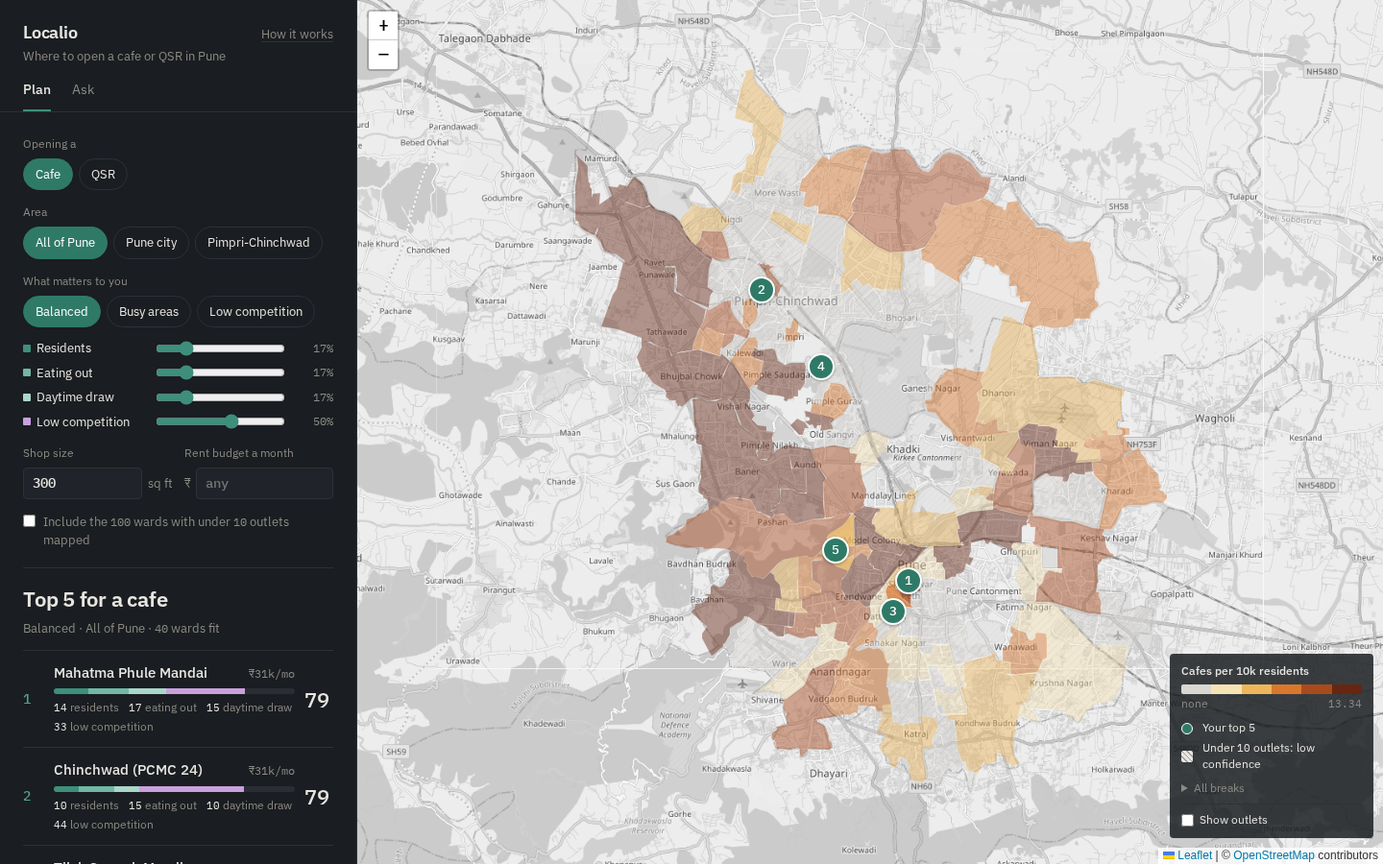
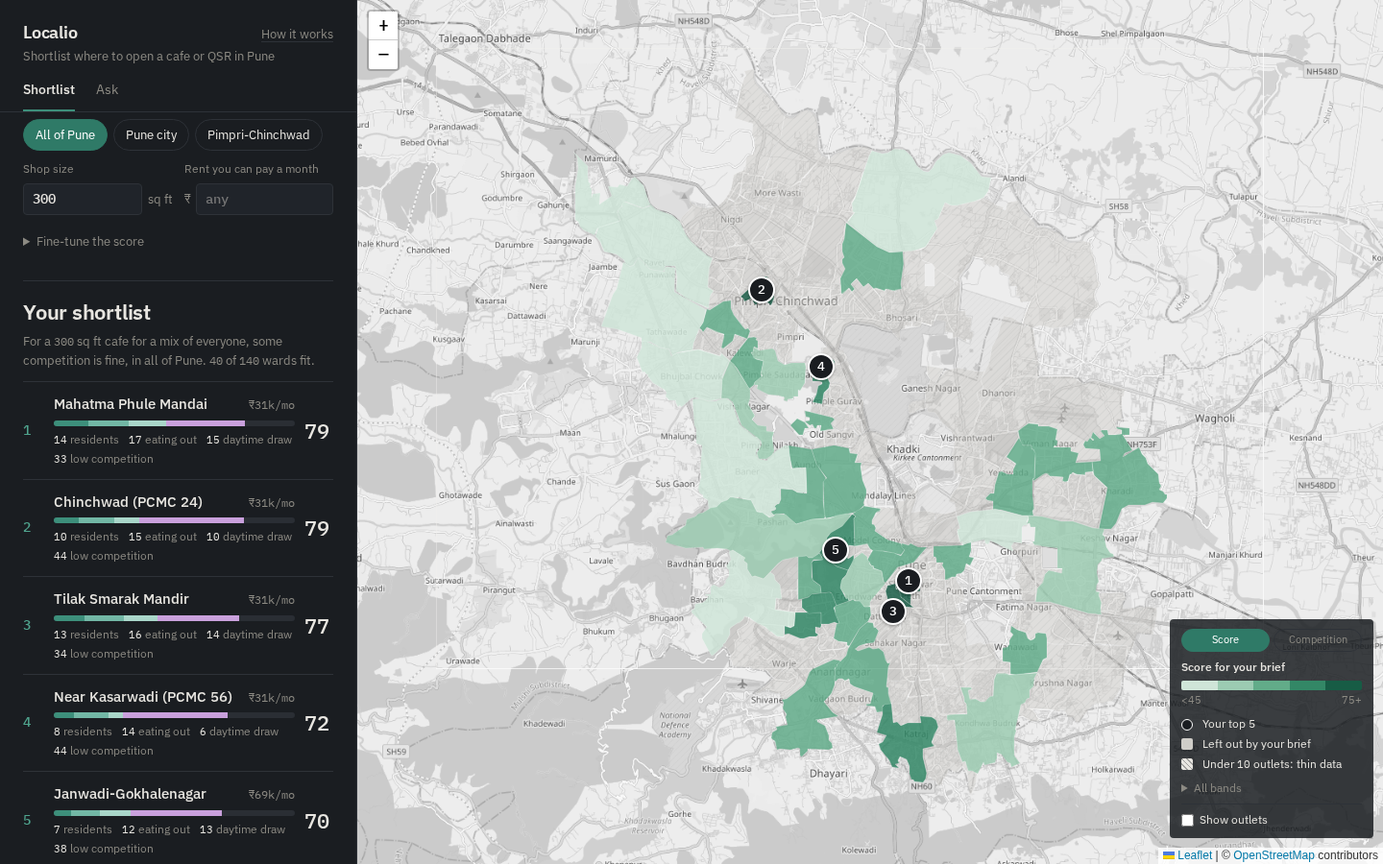
Rewrite the README around what Localio is for, and tidy docs/
The README leads with who it's for and a walkthrough with real numbers,
then the scoring, the limits, and how to run and check it. DECISIONS.md
and DATA_LICENSES.md move into docs/ beside the architecture and QA
notes, and each is updated for the brief, the map and the chat.

diff --git a/README.md b/README.md
@@ -1,56 +1,75 @@
 # Localio
 
-**Where in Pune should I open a cafe or a QSR?**
+**Shortlist where to open a cafe or a QSR in Pune.**
 
-Localio scores all 140 of Pune's wards on four things: how many people live there, how much they already eat out, what draws people in by day, and how many places like yours are there already. You decide how much each matters. The map shows the best five wards, the rent to expect, and every part of each score. A chatbot, powered by Google Gemini, answers questions from the same data.
+Picking a neighbourhood comes before picking a shop, and it's usually done on gut feel. Localio makes that first cut with data. Describe what you're opening, who your customers are and what rent you can pay. It ranks all 140 of Pune's wards, estimates the rent in each, and shows exactly why each ward scores what it does. You end up with a short list of areas worth visiting.
 
 **Try it:** https://33avash.github.io/Localio/
 
-![Localio: a plan on the left (cafe, balanced, all of Pune, 300 sq ft) with the top 5 wards and their scores, and the wards of Pune shaded by cafes per 10,000 residents on the map](docs/screenshot.png)
+![Localio: the brief on the left (cafe, a mix of customers, some competition, all of Pune, 300 sq ft) above the top 5 wards, with the map coloured by each ward's score](docs/screenshot.png)
 
-## Use it
+## Who it's for
 
-- **Plan.** Pick a format and an area, set how much each of the four parts matters (or start from a preset), and type a shop size and a rent budget. The top 5 update as you go, and every row shows its four parts. Click a ward for the full breakdown.
-- **Ask.** Questions like *"Why is #1 ranked first?"*, *"Compare Baner and Aundh"* or *"Best spot near colleges under ₹35k rent?"*. Gemini answers from Localio's data only, names the wards it relied on (click one to open it), follows up on earlier questions, and can set your plan on the map. Anything off-topic is refused.
-- **Share.** The URL holds your plan (for example `#qsr/busy/pcmc?budget=40000`, or `#cafe/custom/all?w=1,1,5,3` for weights of your own), so a link opens the same shortlist.
+Anyone doing a first-cut site search for a small food business in Pune, such as a founder planning a first cafe or a chain looking at its next outlet. It answers "where should I look?", not "will this shop make money?".
+
+## A walkthrough
+
+Say you're opening a **300 sq ft coffee bar for students and office workers**, you'd rather not sit next to other cafes, and you can pay **₹35,000 a month** in rent.
+
+1. **Answer the four questions:** Cafe · Office workers and students · Avoid competition · All of Pune, 300 sq ft, ₹35,000.
+2. **Read the shortlist.** Katraj Dairy comes first (79/100): 4 colleges, 8 stations and only 2 cafes mapped, at about ₹31k a month. Pune University (77) and Janwadi-Gokhalenagar (76) would make the top 5 but drop out on rent (₹49k and ₹69k). The map turns green where a ward fits and grey where your brief rules it out.
+3. **Compare** the top 3 side by side: score, each part of it, rent, the sales you'd need, residents, competition.
+4. **Ask** in plain words: *"Why is Katraj Dairy first?"*, *"Compare Baner and Aundh"*, *"Rent there for 400 sq ft?"*. Answers come from the same data, and every ward they name opens on the map.
+5. **Share** the link. It holds the whole brief (`#cafe?for=offices&competition=avoid&budget=35000`), so it opens the same shortlist anywhere.
+
+Then go and visit. See [the limits](#limits) for why.
 
 ## How a ward is scored
 
 Four parts, each from 0 to 1:
 
-| Part | What it measures | How |
+| Part | Asks | Measured as |
 |---|---|---|
-| **Residents** | where people live | the ward's standing among Pune's 140 wards on residents per km² (0.8 = higher than 80% of them) |
-| **Eating out** | where people already go out | its standing on food and drink places per km², of every kind |
-| **Daytime draw** | what brings people in by day | its standing on offices, colleges and stations per km² |
-| **Low competition** | how crowded your format is | `1 − x / (x + r)`: x is your format's outlets per 10,000 residents (plus one, since OpenStreetMap misses outlets), r the same rate in the 40 well-mapped wards (2.49 cafes, 2.34 QSRs). It's 0.5 at that rate. |
+| **Residents** | Do many people live here? | the ward's standing among the 140 on residents per km² (0.8 = higher than 80% of wards) |
+| **Eating out** | Do people already go out to eat here? | its standing on food and drink places per km² |
+| **Daytime draw** | Does anything bring people in by day? | its standing on offices, colleges and stations per km² |
+| **Low competition** | How crowded is your format already? | `1 − x / (x + r)`: x is your format's outlets per 10,000 residents (plus one, since OpenStreetMap misses outlets), r the rate in the 40 well-mapped wards (2.49 cafes, 2.34 QSRs). 0.5 at that rate. |
 
 ```
 score = 100 × Σ(weight × part) / Σ(weights)
 ```
 
-So each part adds `100 × its share of the weight × its value` points, and the four points add up to the score. You set each weight from 0 to 5; the presets are starting points:
+Your answers set the weights:
 
-| Preset | Residents | Eating out | Daytime draw | Low competition |
-|---|---|---|---|---|
-| Balanced | 1 | 1 | 1 | 3 |
-| Busy areas | 3 | 3 | 3 | 2 |
-| Low competition | 1 | 1 | 1 | 5 |
+| Who are your customers? | Residents | Eating out | Daytime draw |
+|---|---|---|---|
+| A mix of everyone | 1 | 1 | 1 |
+| People who live nearby | 3 | 0 | 0 |
+| Office workers and students | 0 | 0 | 3 |
+| People out to eat | 0 | 3 | 0 |
 
-Wards with fewer than 10 outlets mapped are scored but kept off the top 5 unless you include them: that few usually means thin mapping, not an empty market. The pipeline scores from exactly the numbers it publishes, and a test checks the browser reproduces every score.
+| How much competition can you take? | Low competition |
+|---|---|
+| Avoid it | 5 |
+| Some is fine | 3 |
+| Don't mind | 1 |
 
-**Rent** = typical Pune shop rent (₹137.5 per sq ft a month, the median of 25 listings) × the ward's tier (0.6× to 1.68×, from Cushman & Wakefield's published high-street rents) × your shop size. Localio doesn't forecast sales or profit; there's no open data to do that honestly.
+With "some is fine", the people side and the competition side count half each. Every weight can be fine-tuned (0–5) with sliders. Each row on the site shows the points from each part, and they add up to the score.
 
-## The chatbot
+**Rent** = typical Pune shop rent (₹137.5 per sq ft a month, the median of 25 listings) × the ward's tier (0.6× to 1.68×, from Cushman & Wakefield's high-street rents) × your shop size. Localio also shows the monthly sales that would keep rent at a healthy 8–15%.
 
-The Ask tab is a Gemini chatbot grounded in Localio's data:
+Wards with fewer than 10 outlets mapped are scored but left off the shortlist unless you include them: that few usually means thin mapping, not an empty market.
 
-1. Localio's own engine reads the question: the wards it names, and any format, area, budget, shop size or priority ("near offices", "low competition").
-2. It computes the answer from the ward data, exactly as the map does, and gathers the facts: your plan, how the score works, the top 5 for the plan the question implies, and a full card for each ward in question.
-3. Gemini (`gemini-3.5-flash-lite`, falling back to `gemini-3.5-flash`) writes the reply from those facts only, under rules not to invent numbers or places and to decline anything off-topic. It returns the wards it used, which are checked against the data.
-4. If there's no key, Gemini is busy, or its reply doesn't check out, the chat shows the built-in answer instead.
+## Limits
 
-The browser calls Gemini directly, so on the published site the key is readable in the page. Use a free-tier key (no billing, so misuse can only use up its quota), and restrict it to the site: in [Google Cloud's credentials page](https://console.cloud.google.com/apis/credentials), open the key, set **Application restrictions → Websites** to `https://33avash.github.io/*` (and `http://localhost:8080/*` for local use), and **API restrictions** to the Generative Language API.
+The site states these under every shortlist, too.
+
+- **Visit first.** The score compares wards from data. It can't see the street, the shop or the footfall at your hours.
+- **Outlets are undercounted.** They come from OpenStreetMap, which misses places, most of all in Pimpri-Chinchwad. "No cafes" can mean "none mapped yet".
+- **Residents are 2011 figures** on 2012 wards. Newer areas at the city's edge have grown since.
+- **Rent is an estimate**, not a quote. Tiers come from ten published streets; other wards are estimated from their zone.
+- **No sales forecast.** There's no open data to predict what a shop will earn, so Localio doesn't try.
+- **The chat can misread a question.** Its facts come from the data, but check any ward it names by opening it.
 
 ## Run it yourself
 
@@ -64,33 +83,35 @@ docker compose up --build
 
 Open **http://localhost:8080** once the `data` container has finished (about a minute the first time). Stop it with `docker compose down`.
 
-Everything works without keys; the chat then uses its built-in answers. For Gemini's answers, get a free key at [aistudio.google.com/apikey](https://aistudio.google.com/apikey) (no card needed), copy `.env.example` to `.env`, and set `GEMINI_API_KEY=`. `LOCALIO_CARTO_KEY` (quieter basemap) and `LOCALIO_PORT` (if 8080 is taken) are optional too.
+No keys are needed. Two are optional, set in a `.env` copied from `.env.example`:
+
+- `GEMINI_API_KEY`: a free [Google AI Studio](https://aistudio.google.com/apikey) key. With it, the chat's replies are worded by an AI model (Gemini) from Localio's facts; without it, the chat gives its own rule-based answers.
+- `LOCALIO_CARTO_KEY` gives a quieter basemap. `LOCALIO_PORT` changes the port if 8080 is taken.
 
 ## How it's built
 
-Three containers, started in order by Docker Compose:
-
 ```
-db (PostGIS) ──▶ data (Python pipeline, runs once) ──▶ ./output ──▶ web (nginx: map + chat)
+db (PostGIS) ──▶ data (Python pipeline, runs once) ──▶ ./output ──▶ web (nginx: map, shortlist, chat)
 ```
 
-- **db**: a throwaway PostGIS database. The pipeline uses it to place every outlet in its ward by boundary (`ST_Contains`).
-- **data**: reads `seed_data/`, scores every ward, runs its checks, and writes `wards.geojson`, `pois.geojson` and `rent.json`. If any check fails it writes nothing and the site doesn't start.
-- **web**: nginx serves the map (Leaflet, plain JavaScript) and the pipeline's output. The chat runs in the browser on the same files, and calls Gemini when a key is set.
+- **db** is a throwaway PostGIS database. The pipeline uses it to place every outlet in its ward by boundary (`ST_Contains`).
+- **data** reads `seed_data/`, scores every ward, runs its checks, and writes `wards.geojson`, `pois.geojson` and `rent.json`. If any check fails, it writes nothing and the site doesn't start.
+- **web** is nginx serving the site (Leaflet and plain JavaScript modules, no build step) and the pipeline's output. Scoring, ranking and comparing happen in the browser, from the same numbers the pipeline wrote.
 
-GitHub Actions runs the same pipeline containers to publish the site to GitHub Pages on every push to `main`, and runs every test on every pull request. [docs/ARCHITECTURE.md](docs/ARCHITECTURE.md) has the full picture.
+**The chat** is grounded in the data. Localio's own engine reads the question (the wards it names, the format, area, budget, size, customers) and works out the answer from the ward data. The AI model then only words the reply from those facts. The wards it names are checked against the data, it declines anything off-topic, and if it fails, the engine's own answer is shown. The key is readable in the published page, so restrict it to the site's address in Google Cloud (see [docs/ARCHITECTURE.md](docs/ARCHITECTURE.md#the-chat)).
+
+GitHub Actions runs every test on each pull request, and on each push to `main` runs the same pipeline container to publish the site to GitHub Pages.
 
 ### Repository layout
 
 ```
-data/        the pipeline (Python) and its tests
-web/         the site: HTML, CSS, JavaScript (map, plan, drawer, chat), served by nginx
-tests/e2e/   browser tests (Playwright): the flow, the chat's labelled questions, visuals
-tools/geo/   one-off tools that rebuild seed_data/ from the internet
-seed_data/   every input, committed, so a build never needs the network
-scripts/     verify.sh: clean start to all tests in one command
-docs/        architecture, the manual QA checklist, the screenshot
-.github/     checks on every pull request; publishing to GitHub Pages
+data/          the pipeline (Python) and its unit tests
+web/           the site: HTML, CSS, JavaScript modules, served by nginx
+tests/e2e/     browser tests (Playwright)
+seed_data/     every input, committed, so a build never needs the network
+tools/geo/     one-off tools that rebuild seed_data/ from the internet
+scripts/       verify.sh: a clean start through every test
+docs/          architecture, design decisions, licences, the manual QA list
 ```
 
 ## Check it works
@@ -99,7 +120,7 @@ docs/        architecture, the manual QA checklist, the screenshot
 make verify        # or: bash scripts/verify.sh
 ```
 
-It tears everything down, rebuilds, and runs the pipeline's checks, its unit tests and the browser tests, then prints a summary:
+It tears everything down, rebuilds, runs the pipeline's checks, its 34 unit tests and 45 browser tests, and prints a summary:
 
 ```
 localio verify
@@ -117,23 +138,15 @@ all checks passed
 |---|---|---|
 | 140 ward boundaries (2012) | [DataMeet](https://github.com/datameet/Pune_wards) | CC BY-SA 2.5 IN |
 | Residents per ward | Census 2011 totals, shared by 2012 voter rolls (PMC) or equally (PCMC) | Government Open Data Licence |
-| 1,702 food and drink outlets in the wards; offices, colleges, stations | [OpenStreetMap](https://www.openstreetmap.org), via Overpass | ODbL |
+| 1,702 food and drink outlets; offices, colleges, stations | [OpenStreetMap](https://www.openstreetmap.org), via Overpass | ODbL |
 | High-street rents | [Cushman & Wakefield](https://www.cushmanwakefield.com/en/india/insights/pune-marketbeat), Q2 2026 | cited figures |
 | Shop listings | [Square Yards](https://www.squareyards.com/rent/shops-for-rent-in-pune), 25 listings | cited figures |
 
-[DATA_LICENSES.md](DATA_LICENSES.md) lists every source and tool with its terms. The code is MIT licensed.
-
-## Limits
-
-- **OpenStreetMap misses outlets**, most of all in Pimpri-Chinchwad, so "no cafes" can mean "none mapped yet". Check on the ground.
-- **Residents are 2011 figures** on 2012 wards. Pune has grown since, especially at its edges.
-- **Rent is a guide, not a quote.** Tiers come from ten published streets; the other wards are estimated from their zone.
-- **The score compares wards.** It says where to look first, not what a shop will earn.
-- **The chatbot words, it doesn't know.** Gemini only sees the facts Localio hands it for each question; if they don't cover something, it says so. When Gemini is busy or unreachable, the chat falls back to its built-in answers and says so.
+[docs/DATA_LICENSES.md](docs/DATA_LICENSES.md) lists every source and tool with its terms. The code is MIT licensed.
 
 ## More
 
-- [docs/ARCHITECTURE.md](docs/ARCHITECTURE.md): the containers, the pipeline's checks, and publishing
-- [DECISIONS.md](DECISIONS.md): the main design choices and why
+- [docs/ARCHITECTURE.md](docs/ARCHITECTURE.md): the containers, the pipeline's checks, the chat, publishing
+- [docs/DECISIONS.md](docs/DECISIONS.md): the main design choices and why
 - [docs/QA.md](docs/QA.md): what to check by hand before a demo
 - [seed_data/SOURCES.md](seed_data/SOURCES.md): every input and how to refresh it

diff --git a/docs/DECISIONS.md b/docs/DECISIONS.md
@@ -18,7 +18,7 @@ The main choices behind Localio, and why. Each one is small enough to defend in 
 
 **Four parts, each shown with its points.** Residents, eating out, daytime draw and low competition. An earlier version folded the first three into one "busyness" number; splitting them lets someone who cares about office workers say so, and every row and drawer shows what each part added.
 
-**The user sets the weights.** Sliders from 0 to 5 for each part, with three presets as starting points. The pipeline publishes the presets, so the site, the chat and the pipeline can't drift apart.
+**Two plain questions set the weights.** "Who are your customers?" and "How much competition can you take?" are questions a cafe founder can answer; "weight daytime draw 3 of 5" isn't. Each customer answer weights the one measure of people that fits it (all three for a mix), and each competition answer sets the low-competition weight. An earlier version weighted the matching part 3 and the others 1; the old city's peths lead on all three, so the answer barely changed the list. Sliders stay behind "Fine-tune" for anyone who wants them.
 
 **Competition against well-mapped wards.** The first version compared each ward with the city median, 0.23 cafes per 10,000 residents, dragged down by 100 wards where OpenStreetMap maps almost nothing; 72% of shortlistable wards then read as "heavy competition". The reference is now the rate across the 40 wards with 10 or more outlets mapped (2.49 cafes per 10,000).
 
@@ -46,28 +46,33 @@ The main choices behind Localio, and why. Each one is small enough to defend in 
 
 ## Front end
 
-**One screen, not a wizard.** The plan's inputs sit above the top 5 and every change, including each slider, re-ranks at once. Earlier versions walked through four steps; one screen shows cause and effect directly.
+**Say what it's for, and what it can't do, where people decide.** An intro states the purpose until it's dismissed, and "Before you decide" sits under every shortlist, not in a drawer, because the limits matter most at the moment of choosing.
+
+**One screen, not a wizard.** The brief sits above the shortlist, and every answer re-ranks at once. Earlier versions walked through four steps; one screen shows cause and effect directly.
+
+**The map shows the score for your brief.** Wards are shaded by their score in fixed bands, so a colour always means the same score, and wards the brief rules out (area, rent, thin data) turn grey with the reason on hover. The competition view is one switch away.
 
 **Every score shows its parts.** Each row shows the points from each of the four parts, which add up to its score, so a ranking is never a bare number.
 
+**Compare, because a shortlist is for choosing.** The top 3 side by side, any column swappable, with the best value in each row marked.
+
 **Plain ES modules, no build step.** The site is a few small modules; a bundler would add a toolchain to install and break.
 
-**The URL is the plan.** Format, weights, area, size and budget live in the hash, so a link reopens the same shortlist.
+**The URL is the brief.** Format, area, answers, size and budget live in the hash, so a copied link reopens the same shortlist. Links from before the brief still open their format and area.
 
 ## Chat
 
-**Gemini writes, Localio decides.** Localio's engine parses each question and computes the answer from the ward data; Gemini only turns those facts into a reply. It never sees anything but the facts for that question, so it can't bring in outside claims about Pune, and every ward it names is checked against the data. This keeps the answers as accurate as the map while reading like a conversation.
+**Localio decides, the AI words it.** Localio's engine parses each question and works out the answer from the ward data; an AI model (Gemini) only turns those facts into a reply. It sees nothing but the facts for that question, so it can't bring in outside claims about Pune, and every ward it names is checked against the data.
 
-**Facts for the plan the question implies.** "Rent there for 400 sq ft" gets cards computed at 400 sq ft, not 300, so Gemini quotes a figure from the data instead of scaling one itself (it once said ₹41,333 where the data says ₹40,700).
+**The site doesn't name the model.** To a user it's Localio's assistant: the answers are Localio's, from Localio's data, and naming a vendor adds nothing to them. The "How it works" drawer says an AI words the replies and can misread a question; the docs name the model for anyone running it.
 
-**Called from the browser, with a fast model first.** The site is static on GitHub Pages, so there's no server to hold the key; the browser calls Gemini directly. `gemini-3.5-flash-lite` answers in about 1.5 seconds; `gemini-3.5-flash` takes over when it's busy. The key is therefore public, so it's a free-tier key restricted to the site's address, with a limit of 8 questions a minute per visitor.
+**Facts for the plan the question implies.** "Rent there for 400 sq ft" gets cards computed at 400 sq ft, not 300, so the model quotes a figure from the data instead of scaling one itself (it once said ₹41,333 where the data says ₹40,700).
 
-**Always a fallback.** No key, a busy model or a reply that fails its checks means the built-in answer, labelled as such. Tests never call the real Gemini: they mock it, to check what it's sent, what's shown, and the fallback.
+**Called from the browser, with a fast model first.** The site is static on GitHub Pages, so there's no server to hold the key. `gemini-3.5-flash-lite` answers first; `gemini-3.5-flash` takes over when it's busy. The key is therefore public, so it's a free-tier key restricted to the site's address, with a limit of 8 questions a minute per visitor.
 
+**Always a fallback.** No key, a busy model or a reply that fails its checks means the engine's own answer. The engine is rule-based: it finds ward names (official titles and the places inside each ward), reads format, area, budget, size and customers from the question, and picks one of a few answer types (a ward, a comparison, why, rent, a ranking, gaps, the method). Tests never call the real model; they mock it.
 
-**In the browser, from the same files.** The chat reads the ward data the map uses, so the two can't disagree; a test checks the chat's top 5 equals the map's for every plan it's asked about. It needs no server, which is what lets the published site be a static page.
-
-**Rules, not a language model.** It finds ward names (official titles and the places inside each ward), reads format, area, budget, size and what matters ("near offices", "low competition") from the question, and picks one of a few answer types: a ward, a comparison, why a ward ranks where it does, rent, a ranking, gaps, or the method. A model would sound more fluent but could state numbers the data doesn't hold; this can't.
+**The same files as the map.** The chat reads the ward data the map uses, so the two can't disagree; a test checks the chat's top 5 equals the map's for every plan it's asked about.
 
 **Refuse instead of guessing.** A question must name a ward or use a domain word (cafe, QSR, rent, ward, and so on). All 11 off-topic test questions are refused.
 

diff --git a/docs/QA.md b/docs/QA.md
@@ -7,29 +7,34 @@
 ## 1. Cold start
 - [ ] `git clone https://github.com/33avash/Localio.git`, `cd Localio`, `docker compose up --build`.
 - [ ] The `data` log ends with every check `ok` and three `wrote` lines; `web` reports healthy.
-- [ ] http://localhost:8080 shows a loading skeleton briefly, then your plan, its top 5, and the wards filling the map.
+- [ ] http://localhost:8080 shows a loading skeleton briefly, then the intro, the brief, its top 5, and the wards filling the map.
 
-## 2. The plan
-- [ ] The top 5 shows straight away, for a cafe, Balanced, all of Pune, 300 sq ft.
+## 2. The brief and the shortlist
+- [ ] The intro says what the site is for. "Got it" hides it, and it stays hidden after a reload.
+- [ ] The top 5 shows straight away, for a cafe, a mix of everyone, some competition, all of Pune, 300 sq ft.
 - [ ] Each row's four parts add up to its score.
-- [ ] Drag a slider: the shares and the list update as you drag, the URL switches to `custom`, and a preset button puts it back.
-- [ ] Switch preset and area: the list re-ranks, scores count to their new values, and the map's five markers follow.
-- [ ] Type 30000 as the rent budget: every rent in the list is at most ₹30k. Type 5000: the list says nothing fits and offers to raise the budget.
-- [ ] Reload. The same plan comes back from the URL; open it in another browser and it's the same there.
+- [ ] Pick "Office workers and students" and "Avoid it": the list re-ranks, scores count to their new values, the summary sentence and URL follow, and the map recolours.
+- [ ] Open "Fine-tune the score" and drag a slider: the shares and the list update as you drag, and the summary says "your own weights".
+- [ ] Type 30000 as the rent: every rent in the list is at most ₹30k, and wards over it turn grey on the map. Type 5000: the list says nothing fits and offers to raise the budget.
+- [ ] "Compare the top 3" shows them side by side; swapping a column's ward updates the table.
+- [ ] "Copy link to this shortlist", then open the link in another browser: the same brief and list.
+- [ ] "Before you decide" lists the limits under the shortlist.
+- [ ] The legend switches the map between "Score" and "Competition".
 
 ## 3. The drawer
 - [ ] Click a ward on the map, a numbered marker, or a row. The drawer shows its score, a table of its four parts that adds up to it, its rent, where the score comes from, the menu mix and a recommendation.
 - [ ] Open a hatched ward (under 10 outlets). The drawer says its numbers are a lead to check.
+- [ ] "Compare with your top picks" opens the comparison with this ward first.
 - [ ] "Ask about …" switches to Ask and answers about that ward.
 - [ ] Esc closes the drawer, and focus returns to what opened it.
 
 ## 4. Chat
-- [ ] With a Gemini key set, answers say "Written by Gemini from Localio's data"; the typing dots show while it writes.
+- [ ] With a key set, the typing dots show while an answer is written, and nothing on the page names the model. "Which AI are you?" gets "Localio's assistant".
 - [ ] A follow-up ("and the rent there?") answers about the ward just discussed.
 - [ ] "Why is #1 ranked first?" explains the current #1 part by part.
-- [ ] "Cafes near offices" turns the daytime weight up and offers the plan.
+- [ ] "Best spot near colleges under ₹35k rent?" answers for office workers and students within that rent, and offers the plan.
 - [ ] "Compare Baner and Aundh" compares them for your format.
-- [ ] "Cafes in PCMC under ₹30k rent" lists wards and offers "Use this plan on the map", which sets it.
+- [ ] "Cafes in PCMC under ₹30k rent" lists wards and offers "Use this on the map", which sets it.
 - [ ] A ward chip opens that ward's drawer.
 - [ ] "who won the world cup" is refused, with no chips.
 
@@ -38,7 +43,7 @@
 - [ ] Narrow the window below 860px. The panel becomes a bottom sheet; dragging its handle resizes the map.
 
 ## 6. Keyboard only
-- [ ] Without the mouse, Tab through the plan, change it with Enter, open a row, close the drawer with Esc, and switch tabs with the arrow keys.
+- [ ] Without the mouse, Tab through the brief, change it with Enter, open a row, close the drawer with Esc, and switch tabs with the arrow keys.
 
 ## 7. The published site
 - [ ] https://33avash.github.io/Localio/ opens on a phone and on another laptop, and the chat answers there too.

diff --git a/docs/ARCHITECTURE.md b/docs/ARCHITECTURE.md
@@ -23,10 +23,10 @@ flowchart LR
     end
 
     subgraph web["web · nginx:alpine"]
-        site["plan, map, drawer<br/>and chat, in the browser"]
+        site["brief, shortlist, map,<br/>compare and chat, in the browser"]
     end
 
-    gemini(["Google Gemini<br/>writes chat replies from<br/>the facts it's given"])
+    gemini(["AI model (Gemini)<br/>words chat replies from<br/>the facts it's given"])
 
     seed --> load
     load <--> pg
@@ -52,8 +52,19 @@ flowchart LR
 - **Start order.** `data` waits for `db` to be healthy; `web` waits for `data` to finish successfully. A failed check means the site never shows bad numbers.
 - **No stale state.** The database uses tmpfs, `./output` is a bind mount rather than a named volume, and nginx serves `/data/` with `Cache-Control: no-store`. Every run shows that run's numbers.
 - **Atomic writes.** The pipeline writes each file to a `.tmp` sibling and then renames it, so nginx never serves half a file.
-- **The browser does the interactive work.** The pipeline ships each ward's four score parts, the presets and its rent tier, so changing the plan or any weight re-ranks instantly, and the chat answers from the same files. For the chat's wording, the browser sends Gemini the question and the facts Localio computed for it; the key comes from `config.json`, written by nginx from `.env` locally and by the Pages workflow from a repository secret.
+- **The browser does the interactive work.** The pipeline ships each ward's four score parts, the default weights and its rent tier. The site turns the user's brief into weights (`web/static/js/score.js`), so any change re-ranks instantly, and the map, the comparison and the chat all work from the same files. A test checks the browser reproduces all 280 of the pipeline's scores.
 - **Offline by default.** Seed data, Leaflet and the fonts are committed. The only runtime network use is map tiles, and the map still works without them.
+
+## The chat
+
+Two layers, so answers stay as accurate as the map:
+
+1. **Localio's engine** (`web/static/js/chat.js`) reads the question: the wards it names, and any format, area, budget, shop size or customers ("near colleges", "low competition"). It works out the answer from the ward data, exactly as the map would.
+2. **The AI model** (`web/static/js/llm.js`, Gemini: `gemini-3.5-flash-lite`, then `gemini-3.5-flash` if that's busy) gets only the facts for that question: the brief, how the score works, the top 5 for the plan the question implies, and a card of figures for each ward in question. It words the reply under rules to use nothing else, never recalculate, decline off-topic questions and never name itself. It returns the wards it used, which are checked against the data.
+
+With no key, a busy model, a rate limit (8 questions a minute per visitor) or a reply that fails its checks, the engine's own answer is shown. Tests mock the model: they check what it's sent, what's shown, the fallback, and that the page never names it.
+
+The site is static, so the browser calls the model directly and the key is readable in `config.json`. It's written by nginx from `.env` locally and by the Pages workflow from the `GEMINI_API_KEY` repository secret. Use a free-tier key, and in [Google Cloud's credentials page](https://console.cloud.google.com/apis/credentials) restrict it to the site (**Websites**: `https://33avash.github.io/*`, and `http://localhost:8080/*` for local use) and to the Generative Language API.
 
 ## Publishing
 

diff --git a/seed_data/wards/README.md b/seed_data/wards/README.md
@@ -9,7 +9,7 @@ Vendored from [datameet/Pune_wards](https://github.com/datameet/Pune_wards) at c
 | `pune-wards-info.csv` | PMC ward titles, admin wards, and 2012 electoral roll counts (`voters`) |
 | `pune-admin-ward-offices.csv` | PMC's 15 admin ward offices and the electoral wards under each |
 
-**Licence:** [Creative Commons Attribution-ShareAlike 2.5 India](https://creativecommons.org/licenses/by-sa/2.5/in/), © DataMeet Trust (Pune chapter). Share-alike applies to these files and to data derived from them. Localio's ward-level outputs carry the same licence, and this repository's MIT licence covers its code only; see [DATA_LICENSES.md](../../DATA_LICENSES.md).
+**Licence:** [Creative Commons Attribution-ShareAlike 2.5 India](https://creativecommons.org/licenses/by-sa/2.5/in/), © DataMeet Trust (Pune chapter). Share-alike applies to these files and to data derived from them. Localio's ward-level outputs carry the same licence, and this repository's MIT licence covers its code only; see [docs/DATA_LICENSES.md](../../docs/DATA_LICENSES.md).
 
 **Known limits:**
 - These are the 2012 wards. PMC redrew them in 2017 and absorbed 34 villages in 2017–2021, so outlets in those villages fall outside every ward and are counted as outside.

diff --git a/docs/DATA_LICENSES.md b/docs/DATA_LICENSES.md
@@ -1,6 +1,6 @@
 # Licences
 
-Localio's code is MIT licensed (see [LICENSE](LICENSE)). The data and tools it uses come under their own terms, listed here.
+Localio's code is MIT licensed (see [LICENSE](../LICENSE)). The data and tools it uses come under their own terms, listed here.
 
 ## Data
 
